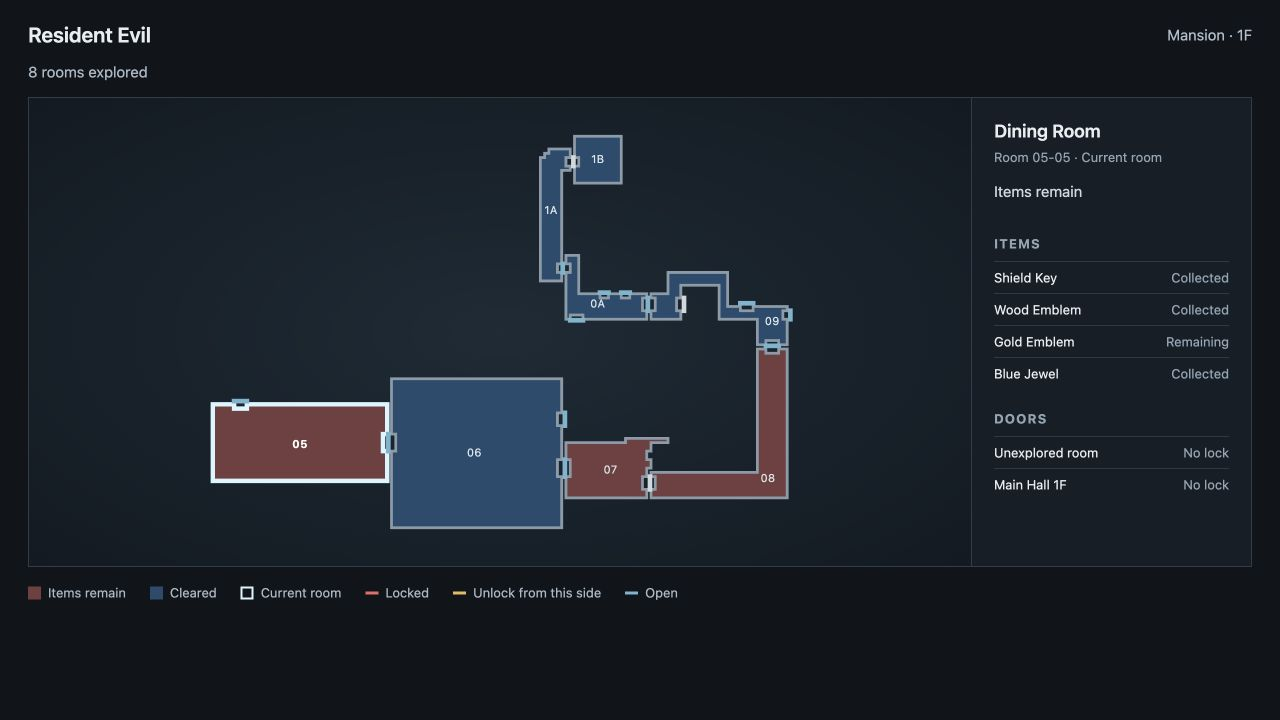
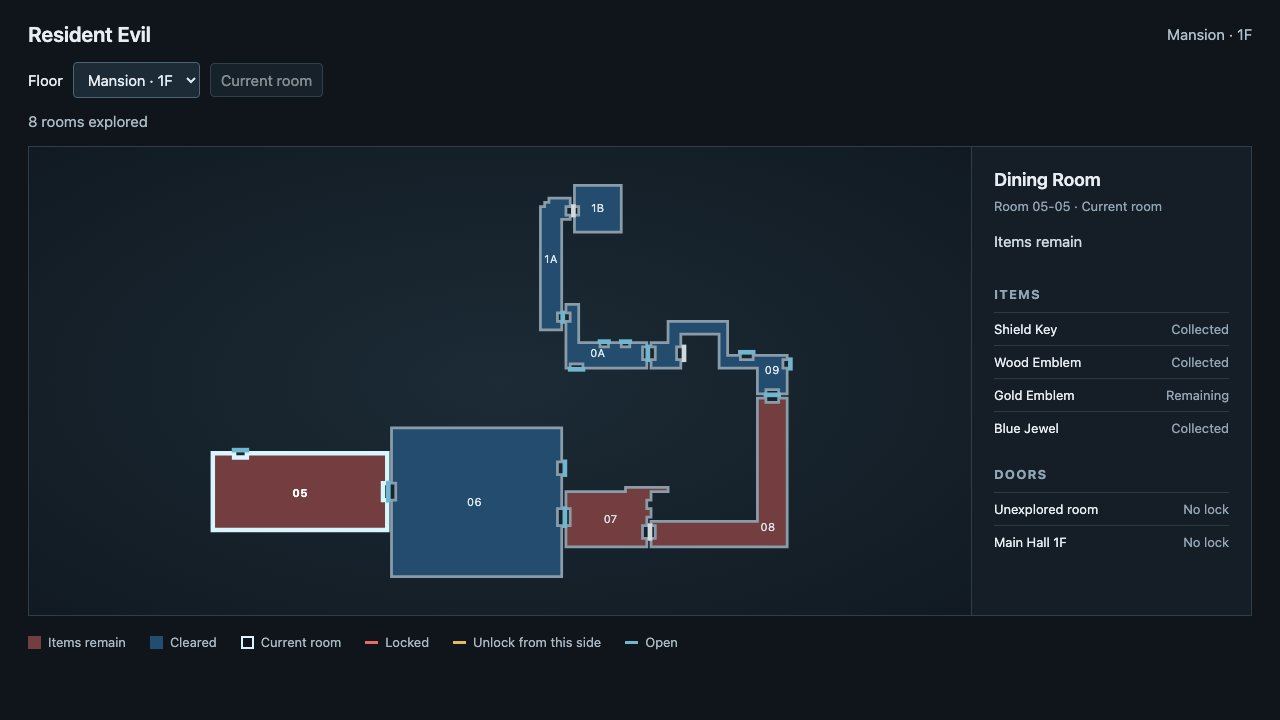
feat(ui): browse explored floors
Author: gpt-6.1-sol

diff --git a/src/ui/map_view.py b/src/ui/map_view.py
@@ -38,6 +38,14 @@ def map_state(tracker: Tracker) -> dict:
         }
 
     region = tracker.current_region.split(":", 1)[-1]
+    # An entered elevator can put the current floor on screen before any of
+    # its outlined rooms have been visited. Keep that floor selectable too.
+    explored_areas = {area: []}
+    for region_key, key in sorted(tracker.region_visits.items()):
+        visited_area, visited_region = region_key.split(":", 1)
+        explored_areas.setdefault(visited_area, []).append(
+            room_detail(key, visited_region)
+        )
     return {
         "status": "display",
         "current": str(current),
@@ -45,11 +53,8 @@ def map_state(tracker: Tracker) -> dict:
         "area": area,
         "map_error": tracker.map_error,
         "current_detail": room_detail(str(current), region),
-        "rooms": [
-            room_detail(key, region.split(":", 1)[1])
-            for region, key in sorted(tracker.region_visits.items())
-            if region.startswith(area + ":")
-        ],
+        "rooms": explored_areas[area],
+        "explored_areas": explored_areas,
         "doors": [
             {
                 "source": str(door.source),
@@ -153,6 +158,9 @@ body { margin:0; }
 header { padding:22px 28px 16px; display:flex; justify-content:space-between; align-items:center; gap:16px; }
 h1 { margin:0; font-size:21px; font-weight:600; }
 #place { color:#b0beca; }
+#map-controls { padding:0 28px 14px; display:flex; align-items:center; flex-wrap:wrap; gap:10px; }
+select,button { font:inherit; color:inherit; background:#1c2b36; border:1px solid #506473; border-radius:4px; padding:7px 10px; }
+select:disabled,button:disabled { opacity:.55; }
 #status { padding:0 28px 14px; min-height:20px; color:#abb9c5; }
 main { display:grid; grid-template-columns:minmax(0,1fr) 280px; margin:0 28px; border:1px solid #303d48; background:#151e27; }
 #map-shell { position:relative; min-width:0; background:radial-gradient(ellipse at center,#1c2b36,#111a22); }
@@ -183,11 +191,12 @@ li span:last-child { color:#94a7b6; text-align:right; }
 .key { display:inline-block; width:13px; height:13px; margin-right:7px; vertical-align:-2px; }
 .key.door-key { height:3px; vertical-align:3px; }
 #note { color:#91a5b4; font-size:13px; line-height:1.5; }
-@media(max-width:760px) { header { padding:18px; } #status { padding:0 18px 12px; } main { margin:0 18px; grid-template-columns:1fr; } svg { min-height:340px; height:52vh; } aside { border-left:0; border-top:1px solid #303d48; } #legend { padding:18px; } }
+@media(max-width:760px) { header { padding:18px; } #map-controls { padding:0 18px 12px; } #status { padding:0 18px 12px; } main { margin:0 18px; grid-template-columns:1fr; } svg { min-height:340px; height:52vh; } aside { border-left:0; border-top:1px solid #303d48; } #legend { padding:18px; } }
 </style>
 </head>
 <body>
 <header><h1>Resident Evil</h1><span id="place"></span></header>
+<nav id="map-controls" aria-label="Map floors"><label for="floor">Floor</label><select id="floor" disabled></select><button id="current-room" type="button" disabled>Current room</button></nav>
 <div id="status" role="status">Waiting for game.</div>
 <main>
 <div id="map-shell"><svg id="map" role="img" aria-label="Explored rooms"></svg></div>
@@ -209,8 +218,21 @@ const svg = document.getElementById('map');
 const ns = 'http://www.w3.org/2000/svg';
 let selected = null;
 let selectedArea = null;
+let floorView = {mode:'follow'};
 let lastState = null;
 let lastReportedError = '';
+const floorSelect = document.getElementById('floor');
+const currentRoomButton = document.getElementById('current-room');
+floorSelect.addEventListener('change',()=>{
+  floorView={mode:'browse',area:floorSelect.value};
+  selected=null;
+  draw(lastState);
+});
+currentRoomButton.addEventListener('click',()=>{
+  floorView={mode:'follow'};
+  selected=null;
+  draw(lastState);
+});
 function reportError(source,error) {
   const details = {source,message:(error instanceof Error ? error.message : String(error)).slice(0,500),stack:(error instanceof Error && typeof error.stack === 'string' ? error.stack : '').slice(0,2000)};
   const key = JSON.stringify([source,details.message]);
@@ -232,6 +254,8 @@ function draw(state) {
   const status=document.getElementById('status');
   lastState=state;
   if(state.status!=='display') {
+    floorSelect.disabled=true;
+    currentRoomButton.disabled=true;
     status.textContent=state.error || 'Waiting for a readable game.';
     // Retain visit geometry; completion colors need a fresh game read after a load or reconnect.
     svg.querySelectorAll('.room').forEach(room=>{
@@ -243,19 +267,43 @@ function draw(state) {
     document.getElementById('completion').textContent='Tracking interrupted';
     document.getElementById('items').replaceChildren();
     document.getElementById('doors').replaceChildren();
+    document.getElementById('note').textContent='';
     return;
   }
+  if(floorView.mode==='browse' && !Object.hasOwn(state.explored_areas,floorView.area)) {
+    // A new playthrough can remove the browsed floor. Resume following instead
+    // of retaining geometry or verdicts from the previous exploration history.
+    floorView={mode:'follow'};
+    selected=null;
+  }
+  const displayedArea=floorView.mode==='browse' ? floorView.area : state.area;
+  const showingCurrentFloor=displayedArea===state.area;
+  const floorIds=Object.keys(state.explored_areas).sort();
+  // Polling must not replace a focused select every half second; keep native
+  // keyboard navigation intact until the explored-floor list actually changes.
+  if(JSON.stringify(floorIds)!==JSON.stringify([...floorSelect.options].map(option=>option.value))) {
+    floorSelect.replaceChildren();
+    for(const id of floorIds) {
+      const option=document.createElement('option');
+      option.value=id;
+      option.textContent=areas.has(id) ? areas.get(id).name : 'Room '+state.current;
+      floorSelect.append(option);
+    }
+  }
+  floorSelect.value=displayedArea;
+  floorSelect.disabled=false;
   svg.replaceChildren();
-  const plan=areas.get(state.area);
-  if(selectedArea!==state.area) {selected=null;selectedArea=state.area;}
+  const plan=areas.get(displayedArea);
+  if(selectedArea!==displayedArea) {selected=null;selectedArea=displayedArea;}
+  currentRoomButton.disabled=floorView.mode==='follow' && selected===null;
   const byId=new Map((plan ? plan.rooms : []).map(room=>[room.id,room]));
   document.getElementById('place').textContent=plan ? plan.name : 'Room '+state.current;
   svg.setAttribute('aria-label',plan ? 'Explored '+plan.name : 'Explored rooms');
-  const visible=new Map(state.rooms.filter(room=>byId.has(room.id)).map(room=>[room.id,room]));
-  const currentId=state.map_region;
-  const picked=selected && visible.has(selected) ? selected : currentId;
+  const visible=new Map(state.explored_areas[displayedArea].filter(room=>byId.has(room.id)).map(room=>[room.id,room]));
+  const currentId=showingCurrentFloor ? state.map_region : null;
+  const picked=selected && visible.has(selected) ? selected : showingCurrentFloor ? currentId : visible.keys().next().value;
   status.textContent=plan ? visible.size+' '+(visible.size===1?'room':'rooms')+' explored' : state.map_error;
-  if(plan && !byId.has(currentId)) status.textContent+=' · This room has no outline on the game map.';
+  if(plan && showingCurrentFloor && !byId.has(currentId)) status.textContent+=' · This room has no outline on the game map.';
   for(const [id,visit] of visible) {
     const room=byId.get(id);
     const group=element('g',{class:'room '+visit.state+(id===currentId?' current':'')+(id===picked?' selected':''),role:'button',tabindex:0,'aria-label':room.name});
@@ -293,10 +341,11 @@ function draw(state) {
     const width=Math.max(68,right-left+18),height=Math.max(44,bottom-top+18);
     svg.setAttribute('viewBox',[(left+right-width)/2,(top+bottom-height)/2,width,height].join(' '));
   }
-  const visit=visible.get(picked) || state.current_detail;
+  const visit=showingCurrentFloor && picked===currentId ? state.current_detail : visible.get(picked);
+  if(!visit) throw new Error('Explored floor has no selected room');
   const room=byId.get(picked) || (plan ? plan.unoutlined_rooms.find(room=>room.id===picked) : null);
   document.getElementById('room-name').textContent=room ? room.name : 'Room '+visit.room;
-  document.getElementById('room-id').textContent='Room '+visit.room+(visit.room===state.current?' · Current room':'');
+  document.getElementById('room-id').textContent='Room '+visit.room+(showingCurrentFloor && picked===currentId?' · Current room':'');
   const completion={INCOMPLETE:'Items remain',CLEARED:'All available items collected',UNKNOWN:'Item check incomplete',VISITED:'Visited'};
   document.getElementById('completion').textContent=completion[visit.state];
   const items=document.getElementById('items');items.replaceChildren();

diff --git a/tests/test_map_view.py b/tests/test_map_view.py
@@ -11,7 +11,8 @@ import pytest
 REPO = Path(__file__).resolve().parents[1]
 sys.path.insert(0, str(REPO / "src"))
 
-from tracker.exploration_state import Tracker
+from games.game_profile import RoomId
+from tracker.exploration_state import DoorDetail, ItemDetail, Tracker
 from ui.map_view import MapRequestHandler, MapServer, map_state
 
 
@@ -36,6 +37,53 @@ def test_map_starts_without_revealed_rooms():
         "current": None,
         "rooms": [],
     }
+
+
+def test_map_exposes_only_explored_floors_with_fresh_item_and_door_details():
+    tracker = Tracker()
+    herb_room, upper_room = RoomId(0, 9), RoomId(1, 3)
+    for room, region in (
+        (herb_room, "mansion1f:09"),
+        (upper_room, "mansion2f:03"),
+    ):
+        tracker.mark_current(room)
+        tracker.region_visits[region] = str(room)
+        tracker.update_room_items(room, 1, 0, True, True, False)
+        tracker.rooms[str(room)].items = (ItemDetail("Green Herb", "available", 1),)
+    tracker.current_region = "mansion2f:03"
+    tracker.doors = (DoorDetail(herb_room, upper_room, "LOCKED", "Locked"),)
+
+    state = map_state(tracker)
+    assert set(state["explored_areas"]) == {"mansion1f", "mansion2f"}
+    assert state["rooms"] == state["explored_areas"]["mansion2f"]
+    assert [room["id"] for room in state["explored_areas"]["mansion1f"]] == ["09"]
+    assert [room["id"] for room in state["explored_areas"]["mansion2f"]] == ["03"]
+    assert state["explored_areas"]["mansion1f"][0]["state"] == "INCOMPLETE"
+    assert state["doors"][0]["state"] == "LOCKED"
+
+    # A loaded game's fresh verdicts must update a browsable departed floor too.
+    tracker.update_room_items(herb_room, 1, 1, True, False, False)
+    tracker.rooms[str(herb_room)].items = (ItemDetail("Green Herb", "taken", 1),)
+    tracker.doors = (DoorDetail(herb_room, upper_room, "OPEN", "Unlocked"),)
+    state = map_state(tracker)
+    previous_floor = state["explored_areas"]["mansion1f"][0]
+    assert previous_floor["state"] == "CLEARED"
+    assert previous_floor["items"][0]["state"] == "taken"
+    assert state["doors"][0]["state"] == "OPEN"
+
+
+def test_unoutlined_current_floor_can_follow_without_revealing_rooms():
+    tracker = Tracker()
+    tracker.mark_current(RoomId(0, 9))
+    tracker.region_visits = {"mansion1f:09": "00-09"}
+    tracker.mark_current(RoomId(4, 0x15))
+    tracker.current_region = "laboratoryb4:15"
+    state = map_state(tracker)
+    assert state["area"] == "laboratoryb4"
+    assert state["explored_areas"]["laboratoryb4"] == []
+    assert len(state["explored_areas"]["mansion1f"]) == 1
+    assert state["current_detail"]["room"] == "04-15"
+    assert state["rooms"] == []
 
 
 def test_map_server_serves_page_and_current_snapshot(caplog):

diff --git a/docs/testing.md b/docs/testing.md
@@ -18,6 +18,10 @@ Open http://127.0.0.1:8765 and leave the terminal running. Stop with Ctrl+C.
 
 The tracker automatically switches among eleven floor plans across the Mansion, Courtyard, Guardhouse and Laboratory. Rooms reveal only when the tracker observes entry. Collecting an in-game map does not reveal extra rooms. Red rooms have available items remaining, blue rooms are cleared, and the white outline marks the current room. Select an explored room to see its items and directional door locks. Exploration resumes across tracker restarts and remains revealed after earlier savestate loads. Item and door states are rebuilt from the loaded game, not stored verdicts.
 
+The Floor selector lists explored floors and the current floor. Selecting a floor keeps that view while gameplay continues. Current room returns to the player's outline and resumes automatic floor switching. Browsed rooms use the same fresh item and door results as the live floor. During an unreadable game state, controls are disabled and item/door verdicts are cleared until a coherent poll returns.
+
+Run `bun tests/check_map_browser.mjs <python-executable>` with Playwright and Chromium installed for browser regressions. The check generates explicit test states through the production map publisher and exercises the real page in headless Chromium. It covers browsing across area changes, follow mode, fresh departed-room item/door states, acquisition reversal, interrupted tracking, new history, unoutlined rooms and camera aliases. These are UI checks, not new gameplay validation.
+
 Use `python3 tools/track.py --map --new-playthrough` to begin a fresh exploration history. Use `--history-file <path>` to keep a separate playthrough. The default `.local/visit-history.json` stays outside Git and contains only room/region visits and game/playthrough identity. Corrupt, mismatched or unwritable histories report an error instead of silently resetting. Only coherent gameplay polls save visits, and interrupted writes preserve the previous file.
 
 Persistence checks run with `python3 -m pytest -q tests/test_visit_history.py`. They cover restart, camera-dependent outlines, unoutlined visits, reconstruction of a departed room, earlier item/door flag reversal, invalid history, atomic-write failure, concurrent writers and CLI gameplay gating. These use synthetic visits and existing donated captured states; they do not claim a new live emulator run.

diff --git a/AGENTS.md b/AGENTS.md
@@ -12,6 +12,7 @@
 
 - Use RE2 Remake's map behavior where practical, with RE1 Remake's room-clear map as the minimum. Draw spatial floor plans, room outlines, corridors and door markers on walls. A graph of room nodes does not satisfy this requirement.
 - Reveal rooms only after the player enters them. Startup and collecting an in-game map must not reveal unexplored rooms.
+- Let the player browse explored floors without revealing unvisited rooms. Follow the current floor by default and provide a control to return to the current room.
 - Keep visit history separate from completion. Visually distinguish the current room, incomplete, cleared and unresolved states. Being current or visited does not imply clearance.
 - Track locked and unlocked doors from game state. Keep observed passage separate from unlock knowledge.
 - Show specific remaining items when their identity is established. A reliable generic collectible indicator is acceptable when only presence is known.
@@ -59,6 +60,10 @@
 
 - Do not commit or distribute BIOS files, disc images, standalone copyrighted assets, credentials or unrelated user saves.
 - Keep selected RE1 savestates and memory-card saves in Git as reproducibility fixtures, with provenance, checksums and emulator compatibility. Keep raw RAM dumps out of Git.
+
+## Documentation
+
+- Update the README screenshot whenever the UI changes.
 
 ## Commits
 

diff --git a/README.md b/README.md
@@ -2,7 +2,7 @@
 
 A companion map for Resident Evil in DuckStation, showing explored rooms, remaining items and doors.
 
-![Explored rooms, remaining items and doors](docs/images/map.jpg)
+![Explored floors, remaining items and doors](docs/images/map.jpg)
 
 ## Setup
 
@@ -32,6 +32,8 @@ The GDB server is built into DuckStation. You do not need to install or start a 
 Keep the terminal running while you play. Press Ctrl+C there to stop the tracker.
 
 Rooms appear as you enter them. Red means items remain; blue means cleared. The white outline marks your current room. Click a room to see its items and doors.
+
+Use **Floor** to browse explored floors. Click **Current room** to return to your location and follow it again.
 
 Explored rooms are saved automatically and stay revealed after restarts or earlier savestate loads. Items and doors update to match the loaded game.
 
